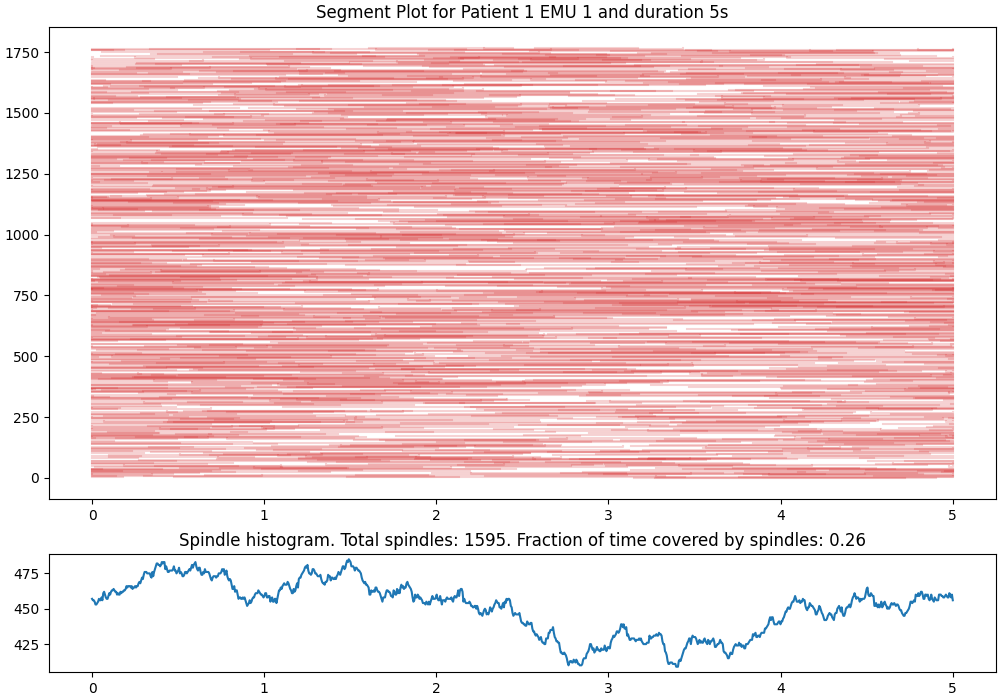
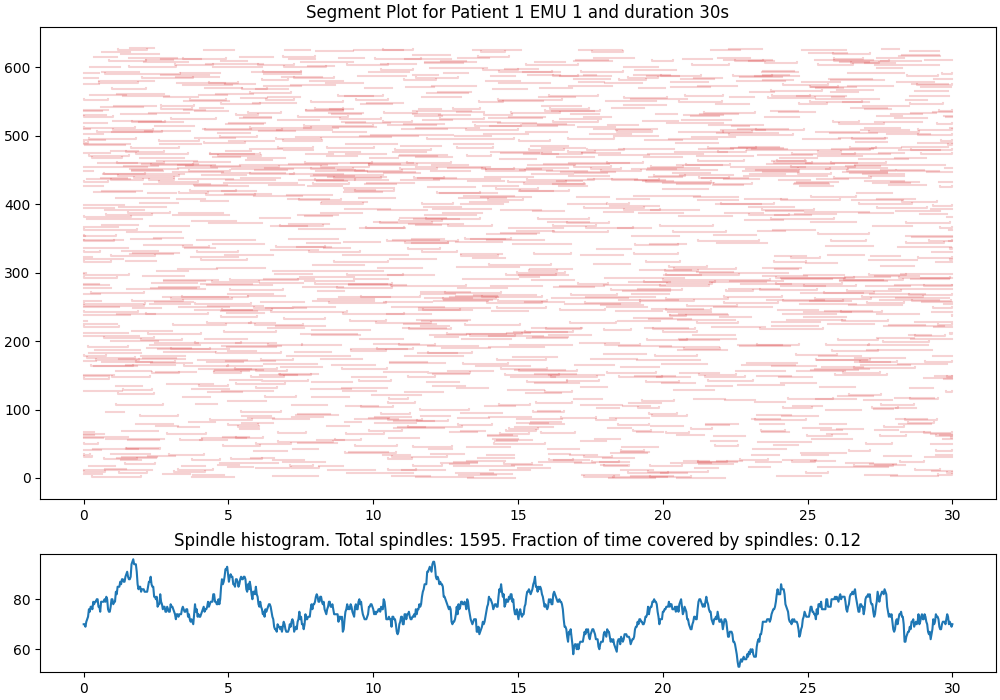
Reupload of images with realistic duration

diff --git a/dataloader.py b/dataloader.py
@@ -411,7 +411,7 @@ if __name__ == '__main__':
     dataset \
         .register_main_csv('data/Spindles_Total.csv') \
         .register_mefd_readers_from_dir('data') \
-        .set_duration(5)
+        .set_duration(30)
     
     for i, elem in enumerate(dataset):
         print(f"Element {i} has {len(elem['spindles'])} spindles")
